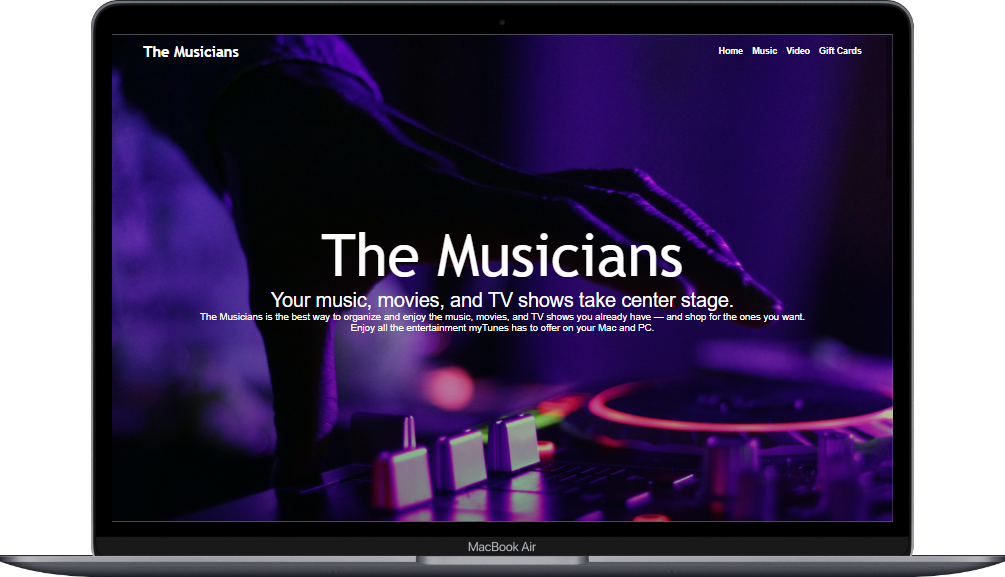
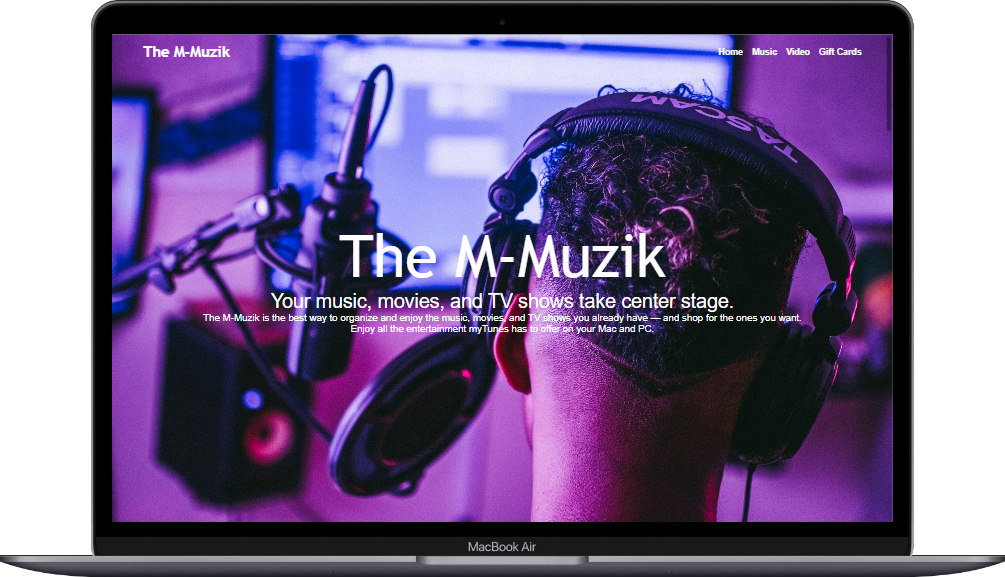
full web design ready except responsiveness

diff --git a/index.html b/index.html
@@ -11,9 +11,10 @@
 </head>
 
 <body>
+
     <nav class="nav-container">
         <div class="nav-brand">
-            <h1>The Musicians</h1>
+            <h1>The M-Muzik</h1>
         </div>
         <div class="nav-navbar">
             <ul>
@@ -27,12 +28,12 @@
 
     <section class="hero">
         <div class="hero-item">
-            <h1>The Musicians</h1>
+            <h1>The M-Muzik</h1>
             <p>
                 Your music, movies, and TV shows take center stage.
             </p>
             <p class="hero-tag">
-                The Musicians is the best way to organize and enjoy the music, movies, and TV shows you already have —
+                The M-Muzik is the best way to organize and enjoy the music, movies, and TV shows you already have —
                 and
                 shop for the ones you want. Enjoy all the entertainment myTunes has to offer on your Mac and PC.</p>
         </div>
@@ -59,6 +60,85 @@
         <button type="submit">Read more</button>
         <img src="./images/mobile.png" alt="">
     </section>
+    <section class="video">
+        <div class="video-info">
+            <h1>A world of entertainment. Available wherever you are.</h1>
+            <p>Lorem ipsum dolor sit amet consectetur adipisicing elit. Voluptatem veniam nobis, nisi ut expedita,
+                doloribus reprehenderit explicabo non velit repellat alias saepe inventore repellendus? Molestias
+                suscipit eos tempora? Quae quaerat cumque in veritatis impedit dolorum sapiente recusandae minima quo
+                aperiam quam, excepturi quasi totam ad quas? Ipsam laudantium soluta delectus!
+                Lorem ipsum dolor sit amet, consectetur adipisicing elit. At incidunt eius harum vero nobis, tempora
+                porro, culpa voluptates cum accusantium itaque rem ea sed quasi eaque neque totam pariatur velit.
+
+            </p>
+            <button type="submit ">Click for more</button>
+        </div>
+    </section>
+    <section class="gift-card-container">
+        <div class="gift-item">
+            <img src="./images/gift_card.png" alt="">
+        </div>
+        <div class="gift-item">
+            <h1>Gift Card</h1>
+            <p>Lorem ipsum dolor sit amet consectetur adipisicing elit. Soluta cupiditate perferendis ex dolores
+                similique corrupti dolore nam aspernatur minus, exercitationem voluptatum, reprehenderit eos nesciunt,
+                ducimus asperiores quibusdam fugiat facere! Possimus?<br><br>
+                Already have an Orange MyTunes Music Gift Card?</p>
+            <hr>
+            <button type="submit">Redeem</button>
+        </div>
+    </section>
+    <footer class="footer-container">
+        <div class="footer-flex">
+            <div class="footer-item">
+                <h1>Shop & Learn</h1>
+                <hr>
+                <ul class="footer-links">
+                    <li>Musics</li>
+                    <li>Movies</li>
+                    <li>Shows</li>
+                    <li>Apps</li>
+                    <li>Gift Cards</li>
+                </ul>
+            </div>
+            <div class="footer-item">
+                <h1>Orange Store</h1>
+                <hr>
+                <ul class="footer-links">
+                    <li>Find a store</li>
+                    <li>Today at Orange</li>
+                    <li>Financing</li>
+                    <li>Orange Camp</li>
+                    <li>Order Status</li>
+                </ul>
+            </div>
+            <div class="footer-item">
+                <h1>Education & Business</h1>
+                <hr>
+                <ul class="footer-links">
+                    <li>Orange & Education</li>
+                    <li>Shop for college</li>
+                    <li>Orange & Business/li>
+                    <li>Shop for Business</li>
+                    <li>Jobs</li>
+                </ul>
+            </div>
+            <div class="footer-item">
+                <h1>About Orange</h1>
+                <hr>
+                <ul class="footer-links">
+                    <li>Newsroom</li>
+                    <li>orange Leadership</li>
+                    <li>Investors</li>
+                    <li>Events</li>
+                    <li>Contact Us</li>
+                </ul>
+            </div>
+        </div>
+        <div class="footer-right">
+            <p>Copyright &copy; 2023 Ashutosh Prasad Web Design</p>
+        </div>
+    </footer>
 </body>
 
 </html>

diff --git a/style.css b/style.css
@@ -14,14 +14,15 @@ html {
     display: flex;
     justify-content: space-between;
     padding: 1% 4%;
-
     align-items: center;
-    color: rgb(255, 255, 255);
+    color: white;
+    z-index: 100;
+    position: absolute;
+    width: 100%;
 }
 
 .nav-brand {
     font-family: 'Trebuchet MS', 'Lucida Sans Unicode', 'Lucida Grande', 'Lucida Sans', Arial, sans-serif;
-    color: rgb(253, 253, 253);
 }
 
 .nav-navbar ul {
@@ -37,14 +38,19 @@ html {
 
 /*hero*/
 .hero {
-    background-image: url(./images/hero_image.png);
+
     display: flex;
     flex-direction: column;
     align-items: center;
     justify-content: center;
-    height: 100vh;
-    margin-top: -55px;
+    background-image: url(images/pexels-davis-sánchez-3916376.jpg);
+    background-position: center;
+    background-size: cover;
+    background-repeat: no-repeat;
+    background-attachment: fixed;
     color: white;
+    top: 0;
+    height: 100vh;
 }
 
 .hero-item {
@@ -146,4 +152,135 @@ small {
 
 .collection img {
     margin-top: 3%;
+}
+
+/*video section*/
+.video-bg {
+    position: absolute;
+    width: 100%;
+    z-index: -1;
+}
+
+.video {
+    display: flex;
+    justify-content: center;
+    align-items: center;
+    margin-top: 3%;
+    height: 80vh;
+    background-image: url(./images/hero_image.png);
+    background-position: center;
+    background-attachment: fixed;
+}
+
+.video-info {
+    display: flex;
+    flex-direction: column;
+    color: white;
+    justify-content: center;
+    align-items: center;
+    height: 100%;
+    padding: 2%;
+    background: #00000070;
+}
+
+.video-info h1 {
+    margin-bottom: 4%;
+    font-size: 2em;
+    text-align: center;
+}
+
+.video-info p {
+    color: #e7e7e7;
+    margin-bottom: 3%;
+}
+
+.video-info button {
+    padding: 1%;
+    background: #672cf1;
+    border: 1px solid #672cf1;
+    color: white;
+    transition: 0.4s linear;
+}
+
+.video-info button:hover {
+    background: #e7e4f0;
+    color: black;
+}
+
+/*gift card*/
+.gift-card-container {
+    display: flex;
+    width: 80%;
+    margin: 3% auto;
+    justify-content: center;
+    align-items: center;
+}
+
+.gift-item {
+    padding: 2%;
+}
+
+.gift-card-container h1 {
+    font-size: 2em;
+    font-weight: 100;
+}
+
+.gift-card-container p {
+    font-size: 0.9em;
+    margin: 1% 0;
+}
+
+.gift-card-container button {
+    padding: 1% 2%;
+    margin-top: 3%;
+    background: #270082;
+    color: white;
+    border: 1px solid #270082;
+    transition: 0.3s ease-in-out;
+}
+
+.gift-card-container button:hover {
+    background: #3502ac;
+    cursor: pointer;
+
+}
+
+/*footer*/
+.footer-container {
+    display: flex;
+    flex-direction: column;
+    background: #1f0066;
+    color: white;
+}
+
+.footer-flex {
+    display: flex;
+    background: #1f0066;
+    justify-content: space-between;
+    padding: 2% 4%;
+}
+
+.footer-item hr {
+    width: 100%;
+    margin: 5% 0%;
+}
+
+.footer-links {
+    list-style: none;
+    text-align: left;
+}
+
+.footer-links li {
+    font-size: 0.8em;
+}
+
+.footer-item h1 {
+    font-size: 1em;
+    text-align: left;
+}
+
+.footer-right {
+    padding: 1%;
+    text-align: center;
+    background: #190052;
 }
